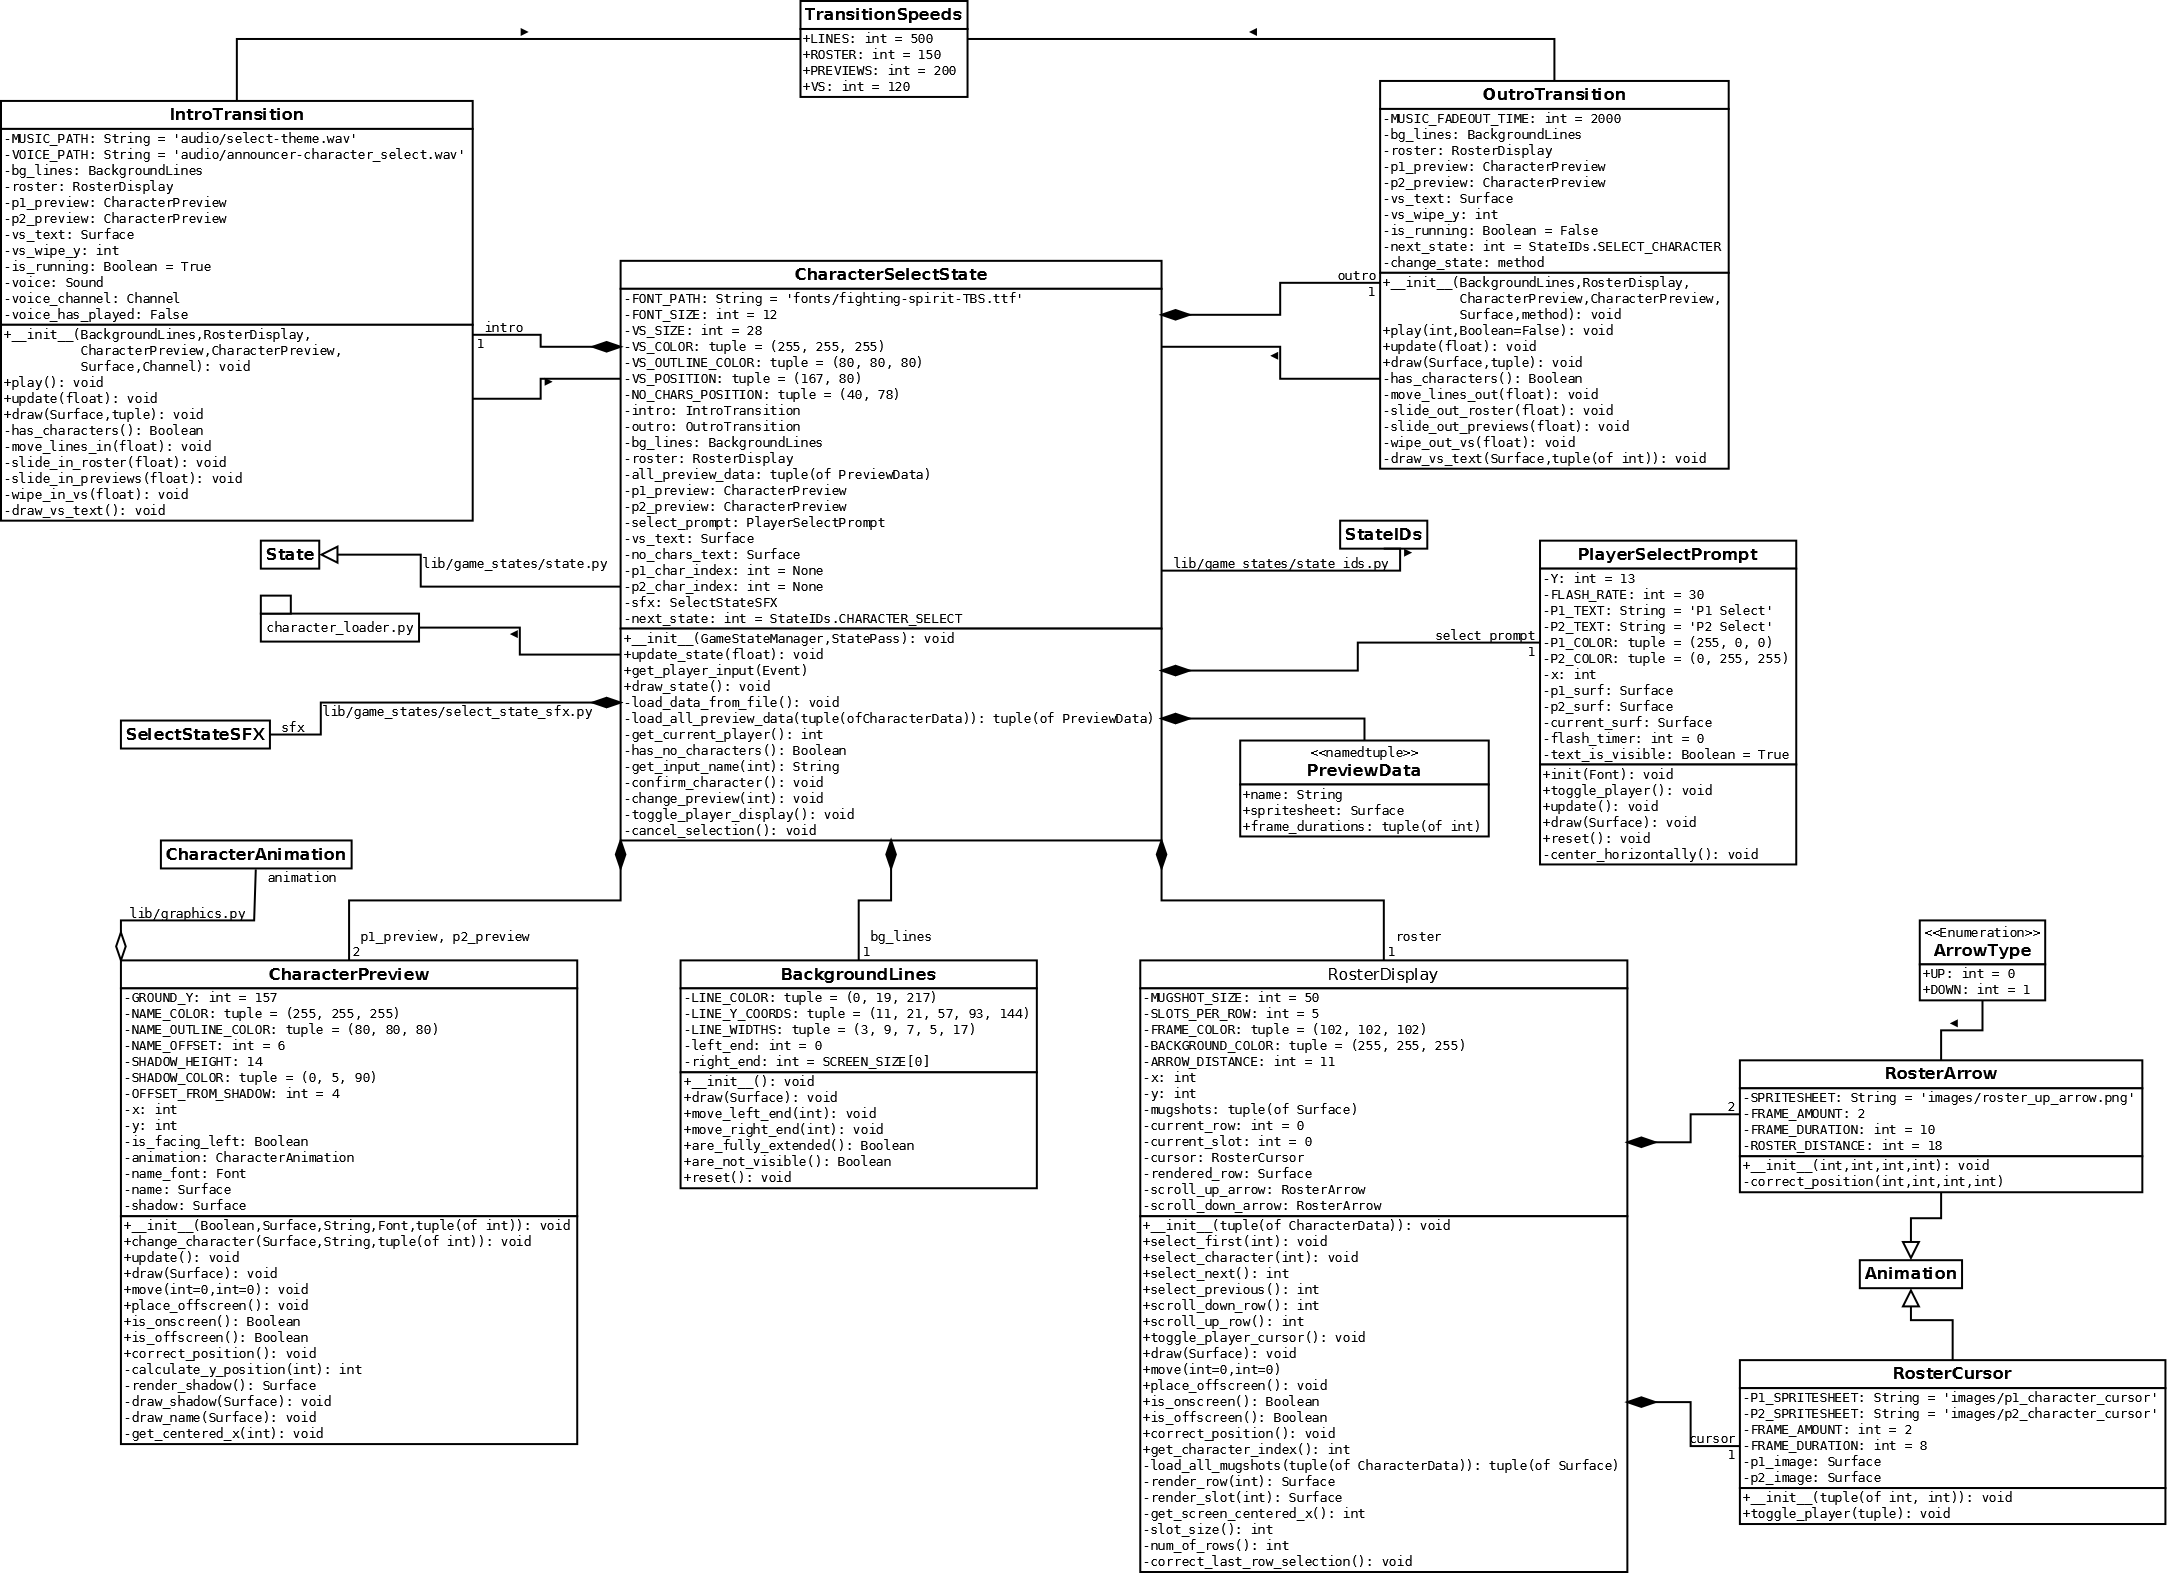
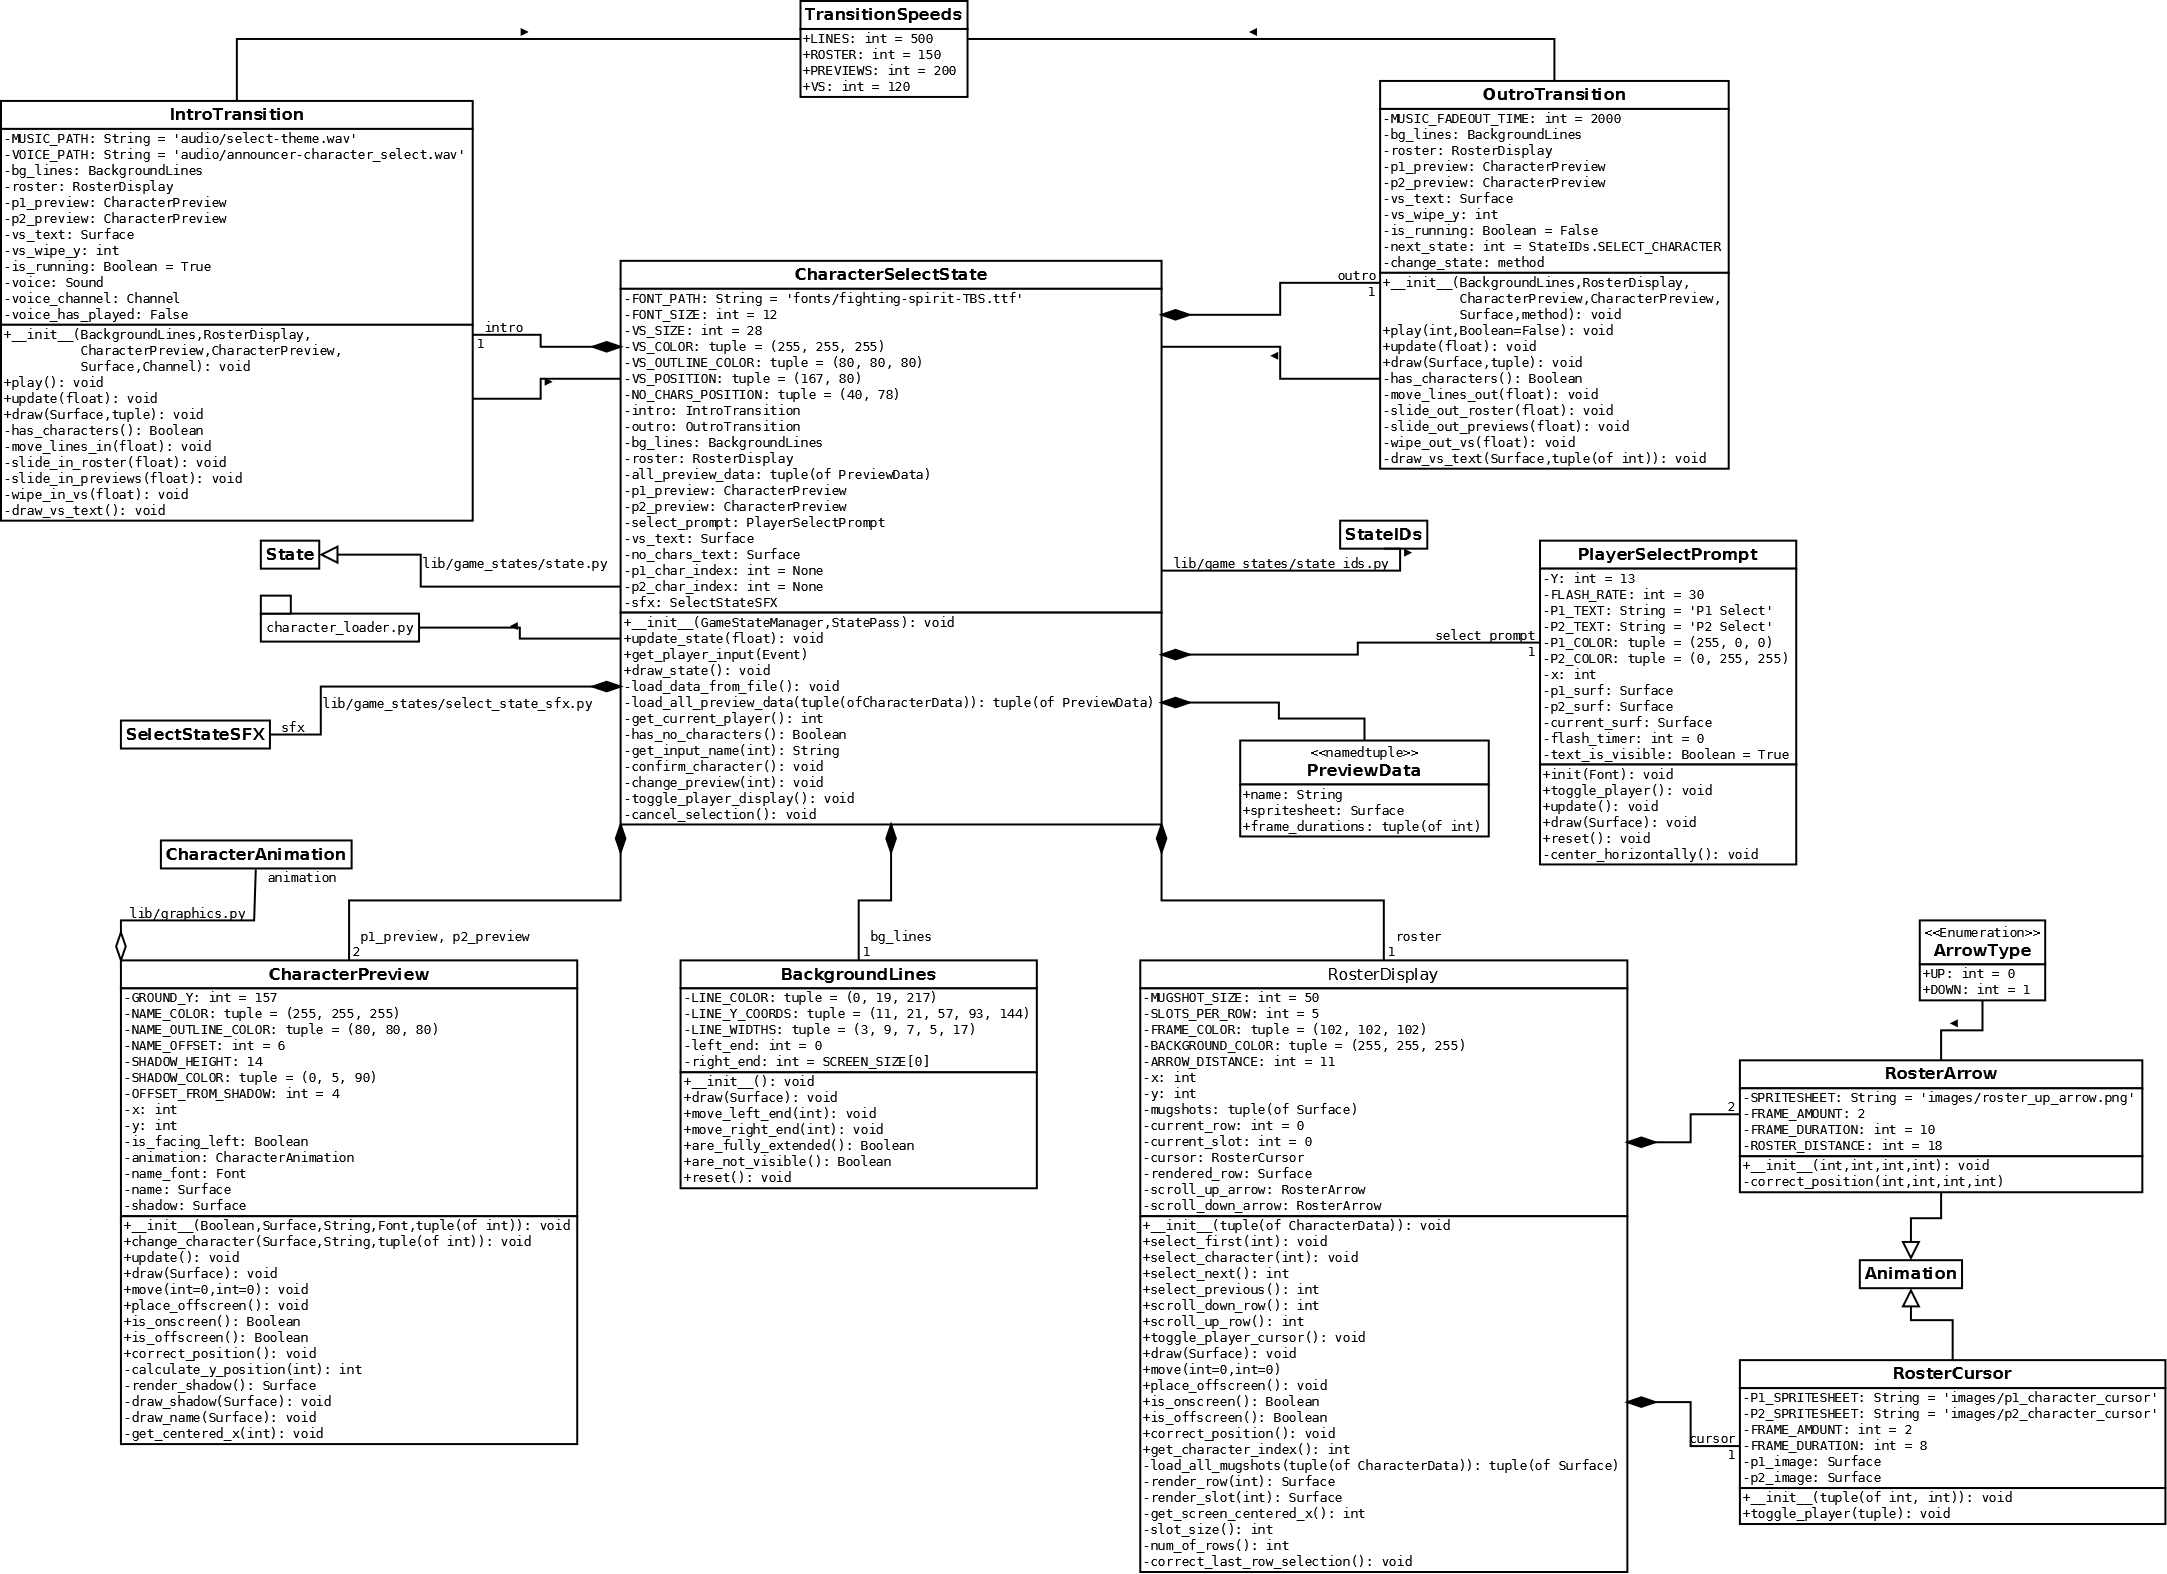
Add OutroTransition to CharacterSelectState
The next_state attribute in CharacterSelectState has also been removed,
since OutroTransition will handle the State change.

Changed region(s): [[0.1546, 0.3736, 0.6184, 0.5604], [0.4019, 0.5292, 0.4329, 0.5604]]

diff --git a/lib/game_states/character_select_state.py b/lib/game_states/character_select_state.py
@@ -65,8 +65,8 @@ class CharacterSelectState(State):
             selected and confirmed by player 2.
         sfx: SelectStateSFX that will be used to play various sound
             effects within this State.
-        next_state: An integer for the index of the next State to be run
-            by the game. See the StateIDs enum for possible values.
+        intro: The IntroTransition that plays upon entering this State.
+        outro: The OutroTransition that plays upon exiting this State.
     """
     FONT_PATH = 'fonts/fighting-spirit-TBS.ttf'
     FONT_SIZE = 16
@@ -104,7 +104,6 @@ class CharacterSelectState(State):
         self.p1_char_index = None
         self.p2_char_index = None
         self.sfx = SelectStateSFX(self.state_pass.ui_channel)
-        self.next_state = StateIDs.SELECT_CHARACTER
 
         if self.has_no_characters():
             wiped_in_text = self.no_chars_text
@@ -114,6 +113,9 @@ class CharacterSelectState(State):
                                      self.p1_preview, self.p2_preview,
                                      wiped_in_text,
                                      self.state_pass.announcer_channel)
+        self.outro = OutroTransition(self.bg_lines, self.roster,
+                                     self.p1_preview, self.p2_preview,
+                                     wiped_in_text, self.change_state)
         self.intro.play()
 
     def load_data_from_file(self):
@@ -245,7 +247,7 @@ class CharacterSelectState(State):
         player 1.
         """
         if self.get_current_player() == 1:
-            self.next_state = StateIDs.TITLE
+            self.outro.play(StateIDs.TITLE, music_will_fade=True)
         else:
             self.change_preview(0)
             p1_last_selection = self.p1_char_index
@@ -269,7 +271,7 @@ class CharacterSelectState(State):
             self.toggle_player_display()
         else:
             self.p2_char_index = self.roster.get_character_index()
-            self.next_state = StateIDs.SELECT_STAGE
+            self.outro.play(StateIDs.SELECT_STAGE)
 
     def toggle_player_display(self):
         """Toggle certain graphics to indicate that the other player is
